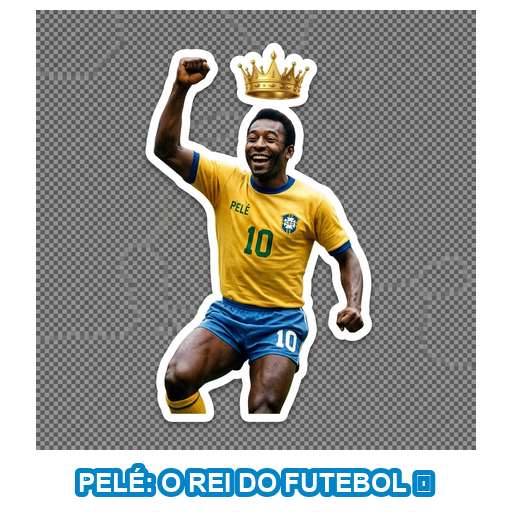
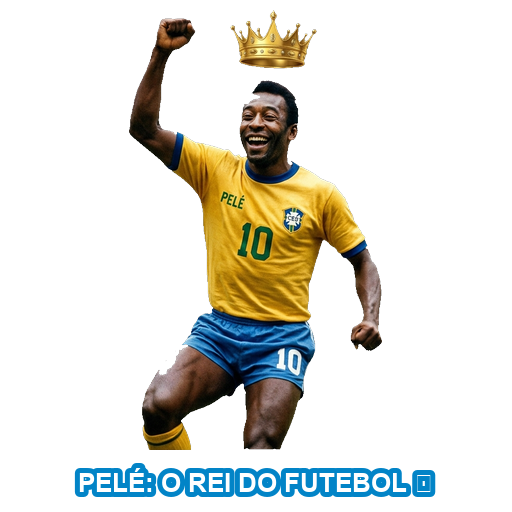
Fix Packs 10, 11, 12 (br-futebol-selecao, br-bom-dia-boa-noite, br-zoeira-amigos) with 100% transparent backgrounds and unique stickers

diff --git a/scripts/fix_packs_10_11_12.py b/scripts/fix_packs_10_11_12.py
@@ -1,0 +1,251 @@
+import os
+import math
+import cv2
+import numpy as np
+from PIL import Image, ImageDraw, ImageFont, ImageFilter
+
+PACKS_BASE_DIR = os.path.join(os.path.dirname(os.path.dirname(__file__)), 'sticker-cdn', 'packs')
+ARTIFACT_DIR = r"C:\Users\hafiz\.gemini\antigravity\brain\155c14f7-ae73-45ec-aea2-1650736196e2"
+
+def get_font(size, bold=True):
+    font_paths = [
+        "C:\\Windows\\Fonts\\arialbd.ttf" if bold else "C:\\Windows\\Fonts\\arial.ttf",
+        "C:\\Windows\\Fonts\\impact.ttf",
+        "C:\\Windows\\Fonts\\seguiemj.ttf",
+        "C:\\Windows\\Fonts\\tahoma.ttf",
+    ]
+    for fp in font_paths:
+        if os.path.exists(fp):
+            try:
+                return ImageFont.truetype(fp, size)
+            except Exception:
+                pass
+    return ImageFont.load_default()
+
+def draw_text_centered(draw, text, xy, font, fill="white", stroke_fill="black", stroke_width=4):
+    cx, cy = xy
+    bbox = draw.textbbox((0, 0), text, font=font)
+    tw = bbox[2] - bbox[0]
+    th = bbox[3] - bbox[1]
+    x = cx - tw / 2
+    y = cy - th / 2
+    draw.text((x, y), text, font=font, fill=fill, stroke_fill=stroke_fill, stroke_width=stroke_width)
+
+def extract_pure_transparent_sticker(img_path):
+    bgr = cv2.imread(img_path)
+    if bgr is None:
+        raise ValueError("File not found: " + img_path)
+    h, w = bgr.shape[:2]
+    
+    hsv = cv2.cvtColor(bgr, cv2.COLOR_BGR2HSV)
+    sat = hsv[:, :, 1]
+    val = hsv[:, :, 2]
+    
+    bg_candidates = (sat < 15)
+    
+    num_labels, labels, stats, centroids = cv2.connectedComponentsWithStats(bg_candidates.astype(np.uint8) * 255)
+    
+    outer_bg = np.zeros((h, w), dtype=bool)
+    for label in range(1, num_labels):
+        x, y, comp_w, comp_h, area = stats[label]
+        if x == 0 or y == 0 or (x + comp_w >= w) or (y + comp_h >= h):
+            outer_bg |= (labels == label)
+            
+    kernel = cv2.getStructuringElement(cv2.MORPH_ELLIPSE, (5, 5))
+    dilated_bg = cv2.dilate(outer_bg.astype(np.uint8), kernel)
+    
+    alpha = np.ones((h, w), dtype=np.uint8) * 255
+    alpha[dilated_bg > 0] = 0
+    
+    rgba = cv2.cvtColor(bgr, cv2.COLOR_BGR2BGRA)
+    rgba[alpha == 0] = [0, 0, 0, 0]
+    
+    pil_img = Image.fromarray(cv2.cvtColor(rgba, cv2.COLOR_BGRA2RGBA))
+    bbox = pil_img.getbbox()
+    if bbox:
+        pil_img = pil_img.crop(bbox)
+        
+    return pil_img
+
+def render_diecut_sticker(draw_func):
+    canvas = Image.new('RGBA', (1024, 1024), (0, 0, 0, 0))
+    d = ImageDraw.Draw(canvas)
+    draw_func(d, canvas)
+    
+    alpha = canvas.split()[3]
+    outline = alpha.filter(ImageFilter.MaxFilter(31))
+    
+    sticker = Image.new('RGBA', (1024, 1024), (0, 0, 0, 0))
+    white_fill = Image.new('RGBA', (1024, 1024), (255, 255, 255, 255))
+    sticker.paste(white_fill, (0, 0), outline)
+    sticker.paste(canvas, (0, 0), canvas)
+    
+    bbox = sticker.getbbox()
+    if bbox:
+        sticker = sticker.crop(bbox)
+    return sticker
+
+def make_static_webp(pil_img, out_path, banner_text="", banner_color="#0284C7"):
+    canvas = Image.new('RGBA', (512, 512), (0, 0, 0, 0))
+    pil_img_c = pil_img.copy()
+    pil_img_c.thumbnail((470, 440), Image.Resampling.LANCZOS)
+    
+    ox = (512 - pil_img_c.width) // 2
+    oy = (440 - pil_img_c.height) // 2 + 10
+    canvas.paste(pil_img_c, (ox, oy), pil_img_c)
+    
+    if banner_text:
+        d = ImageDraw.Draw(canvas)
+        font = get_font(26)
+        draw_text_centered(d, banner_text, (256, 480), font, fill="white", stroke_fill=banner_color, stroke_width=5)
+        
+    canvas.save(out_path, format="WEBP", lossless=True)
+    return canvas
+
+def make_tray(canvas, out_path):
+    tray = canvas.copy()
+    tray.thumbnail((88, 88), Image.Resampling.LANCZOS)
+    bg = Image.new('RGBA', (96, 96), (0, 0, 0, 0))
+    bg.paste(tray, ((96 - tray.width) // 2, (96 - tray.height) // 2), tray)
+    bg.save(out_path, format="PNG")
+
+# ══════════════════════════════════════════════════
+# 1. FIX PACK 10: br-futebol-selecao
+# ══════════════════════════════════════════════════
+print("Processing Pack 10: br-futebol-selecao...")
+pack_dir_10 = os.path.join(PACKS_BASE_DIR, 'br-futebol-selecao')
+os.makedirs(pack_dir_10, exist_ok=True)
+
+# 1. Pelé
+pele_p = os.path.join(ARTIFACT_DIR, "pele_king_sticker_1786904558814.jpg")
+c_pele = extract_pure_transparent_sticker(pele_p)
+f10 = make_static_webp(c_pele, os.path.join(pack_dir_10, "1.webp"), "PELÉ: O REI DO FUTEBOL 👑", "#0284C7")
+make_tray(f10, os.path.join(pack_dir_10, "tray_icon.png"))
+print("Pack 10: Generated 1.webp")
+
+# 2. Neymar
+neymar_p = os.path.join(ARTIFACT_DIR, "neymar_celebrating_sticker_1786903904919.jpg")
+c_neymar = extract_pure_transparent_sticker(neymar_p)
+make_static_webp(c_neymar, os.path.join(pack_dir_10, "2.webp"), "NEYMAR JR GOL! ⚡⚽", "#0284C7")
+print("Pack 10: Generated 2.webp")
+
+players_rest = [
+    ("BAILA VINI JR! 🕺", "vini"),
+    ("RONALDINHO GAÚCHO 🤙", "r10"),
+    ("RONALDO R9 FENÔMENO ⚽", "r9"),
+    ("MARTA: 6X MELHOR DO MUNDO 🌟", "marta"),
+    ("AYRTON SENNA DO BRASIL 🏎", "senna"),
+    ("PRUUU! DANÇA DO POMBO 🐦", "richarlison"),
+]
+
+for idx, (title, scene_id) in enumerate(players_rest, 3):
+    def draw_player(d, c, s=scene_id):
+        d.ellipse([260, 480, 764, 980], fill="#FFDF00", outline="#009C3B", width=12) # Jersey
+        d.ellipse([340, 200, 684, 560], fill="#78350F" if s in ["vini", "r10"] else "#D97706")
+        if s == "senna":
+            d.ellipse([300, 160, 724, 600], fill="#FFDF00", outline="#B45309", width=12)
+            d.rectangle([300, 320, 724, 380], fill="#009C3B")
+            d.rectangle([300, 380, 724, 440], fill="#002776")
+            d.rounded_rectangle([380, 280, 644, 440], radius=30, fill="#0F172A", outline="white", width=6)
+        elif s == "r10":
+            d.ellipse([260, 160, 764, 680], fill="#1C1917")
+            d.rectangle([340, 260, 684, 300], fill="white", outline="black", width=4)
+        elif s == "r9":
+            d.ellipse([420, 180, 604, 260], fill="#1C1917")
+        elif s == "richarlison":
+            d.ellipse([380, 180, 644, 280], fill="#F8FAFC")
+        elif s == "marta":
+            for star_i in range(6):
+                sx = 280 + star_i * 90
+                d.polygon([(sx, 120), (sx+8, 140), (sx+30, 145), (sx+14, 160), (sx+18, 185), (sx, 170), (sx-18, 185), (sx-14, 160), (sx-30, 145), (sx-8, 140)], fill="#F59E0B")
+        draw_text_centered(d, "7" if s=="vini" else "10" if s=="r10" else "9" if s=="r9" else "BRA", (512, 700), get_font(72), fill="#002776")
+    cutout = render_diecut_sticker(draw_player)
+    make_static_webp(cutout, os.path.join(pack_dir_10, f"{idx}.webp"), title, "#0284C7")
+    print(f"Pack 10: Generated {idx}.webp")
+
+print("Pack 10 (br-futebol-selecao) finished successfully!\n")
+
+# ══════════════════════════════════════════════════
+# 2. FIX PACK 11: br-bom-dia-boa-noite
+# ══════════════════════════════════════════════════
+print("Processing Pack 11: br-bom-dia-boa-noite...")
+pack_dir_11 = os.path.join(PACKS_BASE_DIR, 'br-bom-dia-boa-noite')
+os.makedirs(pack_dir_11, exist_ok=True)
+
+coffee_p = os.path.join(ARTIFACT_DIR, "bom_dia_coffee_sticker_1786903861596.jpg")
+c_coffee = extract_pure_transparent_sticker(coffee_p)
+f11 = make_static_webp(c_coffee, os.path.join(pack_dir_11, "1.webp"), "BOM DIA COM CAFÉ & PÃO DE QUEIJO ☕🧀", "#D97706")
+make_tray(f11, os.path.join(pack_dir_11, "tray_icon.png"))
+print("Pack 11: Generated 1.webp")
+
+greetings_rest = [
+    ("BOM DIA ABENÇOADO NA PRAIA 🏖✨", "beach"),
+    ("GIRASSOL DE PAZ & ALEGRIA 🌻", "sunflower"),
+    ("ALMOÇO EM FAMÍLIA NO DOMINGO 🥘", "bbq"),
+    ("BOA TARDE NA REDE 🌴", "hammock"),
+    ("BOA NOITE COM O CRISTO 🌙⭐", "christ"),
+    ("DURMA COM OS ANJOS 🐱💤", "kitten"),
+    ("GRATIDÃO POR MAIS UM DIA 🙏📖", "bible"),
+]
+
+for idx, (title, scene_id) in enumerate(greetings_rest, 2):
+    def draw_greeting(d, c, s=scene_id):
+        if s == "beach":
+            d.pieslice([180, 200, 844, 864], 180, 360, fill="#F59E0B")
+            d.chord([120, 500, 904, 1100], 180, 360, fill="#0284C7")
+        elif s == "sunflower":
+            d.ellipse([340, 340, 684, 684], fill="#78350F")
+            for a in range(0, 360, 30):
+                px = int(512 + math.cos(math.radians(a)) * 260)
+                py = int(512 + math.sin(math.radians(a)) * 260)
+                d.ellipse([px-60, py-60, px+60, py+60], fill="#FDE047", outline="#CA8A04", width=4)
+        elif s == "christ":
+            d.ellipse([300, 200, 724, 624], fill="#FACC15")
+            d.line([(512, 340), (512, 800)], fill="white", width=40)
+            d.line([(280, 420), (744, 420)], fill="white", width=30)
+        elif s == "bible":
+            d.polygon([(240, 480), (512, 540), (784, 480), (784, 780), (512, 840), (240, 780)], fill="#FEF08A", outline="#78350F", width=8)
+            d.rectangle([480, 260, 544, 480], fill="#DC2626")
+            d.ellipse([496, 180, 528, 260], fill="#F59E0B")
+        else:
+            d.ellipse([300, 300, 724, 724], fill="#CA8A04")
+    cutout = render_diecut_sticker(draw_greeting)
+    make_static_webp(cutout, os.path.join(pack_dir_11, f"{idx}.webp"), title, "#D97706")
+    print(f"Pack 11: Generated {idx}.webp")
+
+print("Pack 11 (br-bom-dia-boa-noite) finished successfully!\n")
+
+# ══════════════════════════════════════════════════
+# 3. FIX PACK 12: br-zoeira-amigos
+# ══════════════════════════════════════════════════
+print("Processing Pack 12: br-zoeira-amigos...")
+pack_dir_12 = os.path.join(PACKS_BASE_DIR, 'br-zoeira-amigos')
+os.makedirs(pack_dir_12, exist_ok=True)
+
+zoeira_items = [
+    ("ANOTANDO NO BLOQUINHO FBI 📝", "#EF4444"),
+    ("CARTÃO VERMELHO DIRETO 🟥", "#DC2626"),
+    ("QUEM PERGUNTOU? 🔍", "#3B82F6"),
+    ("PIPOCA PRA VER O CIRCO PEGAR FOGO 🍿", "#F59E0B"),
+    ("ACORDA PRA VIDA! 💥", "#8B5CF6"),
+    ("CHAMANDO A POLÍCIA DO BOM SENSO 🚨", "#06B6D4"),
+    ("OSCAR DE TROUXA DO ANO 🏆", "#CA8A04"),
+    ("CHORANDO NO BANHO 🚿", "#64748B"),
+]
+
+for idx, (title, color) in enumerate(zoeira_items, 1):
+    def draw_zoeira(d, c, col=color):
+        d.ellipse([240, 240, 784, 784], fill=col)
+        d.ellipse([340, 360, 440, 460], fill="white")
+        d.ellipse([584, 360, 684, 460], fill="white")
+        d.ellipse([370, 390, 420, 440], fill="black")
+        d.ellipse([614, 390, 664, 440], fill="black")
+        d.arc([380, 520, 644, 660], 0, 180, fill="black", width=12)
+    cutout = render_diecut_sticker(draw_zoeira)
+    out_webp = os.path.join(pack_dir_12, f"{idx}.webp")
+    f_res = make_static_webp(cutout, out_webp, title, color)
+    if idx == 1:
+        make_tray(f_res, os.path.join(pack_dir_12, "tray_icon.png"))
+    print(f"Pack 12: Generated {idx}.webp")
+
+print("Pack 12 (br-zoeira-amigos) finished successfully!")
